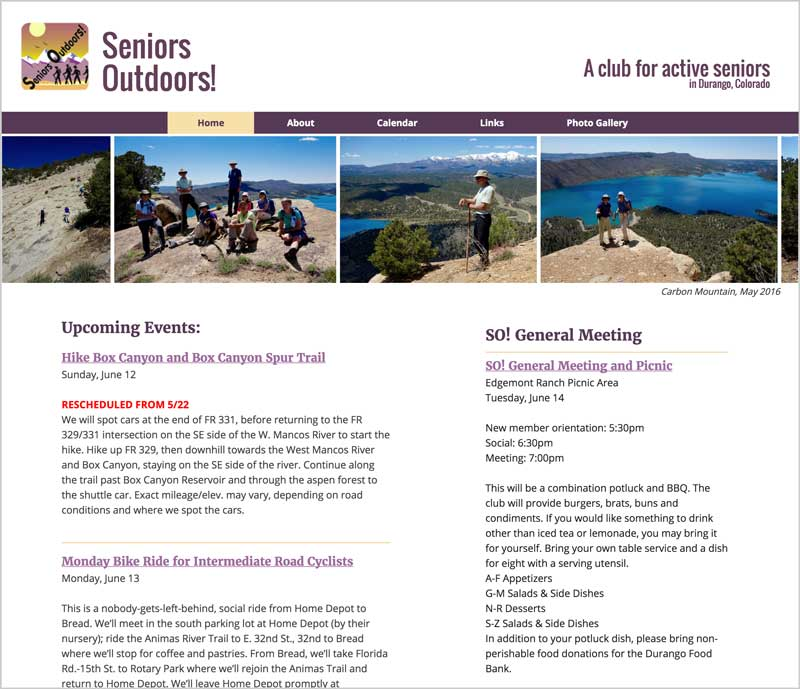
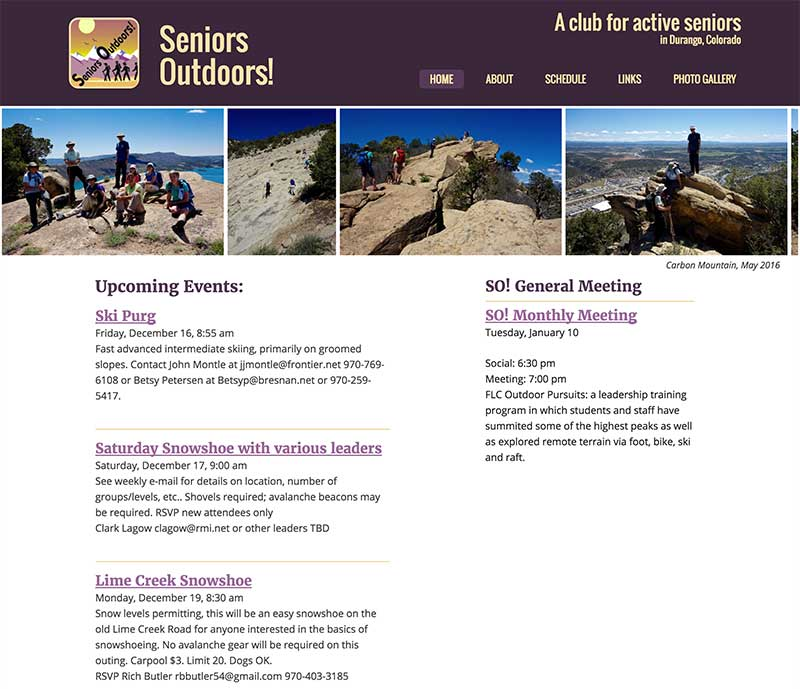
Refactoring of CSS

diff --git a/PUBLIC/projects/seniors-outdoors.html b/PUBLIC/projects/seniors-outdoors.html
@@ -71,23 +71,23 @@
 				<p class="navlink-right"><a class="text-link" href="appledore-banding.html">appledore &raquo;</a></p>
 			</div>
 			<div class="project-header">
-				<h2>Seniors Outdoors Redesign (in progress)</h2>
+				<h2>Seniors Outdoors Redesign</h2>
 				<h4>Information architecture, prototyping (paper, Axure), user testing (card sort, reverse card sort)</h4>
 			</div>
 			<figure class="right">
 				<img src="../img/projects/SO_old.jpg" alt="Current Seniors Outdoors site">
-				<figcaption>Current Site</figcaption>
+				<figcaption>Previous Site</figcaption>
 			</figure>
 
 			<div>
 				<h3>The Project</h3>
-				<p>As a freelance project, I redesigned the website for <a href="http://seniorsoutdoors.org/" class="text-link" target="_blank">Seniors Outdoors</a>, a club for active seniors in Durango, Colorado.</p>
+				<p>As a freelance project, I redesigned the website for Seniors Outdoors, a club for active seniors in Durango, Colorado.</p>
 			</div>
 <!-- 			<img class="right" src="../img/projects/SO-prototype.jpg" alt="Seniors Outdoors prototypes">
  -->
 			<div>
 				<h3>The Problem</h3>
-				<p>The club's current site is dated and has a shallow structure with long pages of dense text, which makes content on the site difficult to access. In addition, club members are increasingly expressing a desire to be able to access information from their mobile devices, which the current site does not support.</p>
+				<p>The club's <a href="http://old.seniorsoutdoors.org/" class="text-link" target="_blank">previous site</a> was dated and had a shallow structure with long pages of dense text, making content on the site difficult to access. In addition, club members were increasingly expressing a desire to be able to access information from their mobile devices, which the previous site did not support.</p>
 			</div>
 
 			<div>
@@ -97,21 +97,22 @@
 					<li>Content inventory and proposed restructuring of the site's information architecture</li>
 					<li>User testing consisting of a card sort and tree test to validate and refine the proposed IA</li>
 					<li>Development of both paper &amp; pencil and Axure prototypes </li>
-					<li><a class="text-link" href="../dev-projects.html#seniors-outdoors">Development of the redesigned site</a> using WordPress (in progress)</li>
+					<li><a class="text-link" href="../dev-projects.html#seniors-outdoors">Development of the redesigned site</a> using WordPress</li>
 				</ol>
 			</div>
 			<figure class="right">
-				<img src="../img/projects/SO_after.jpg" alt="New site in progress">
+				<img src="../img/projects/SO_after.jpg" alt="New site">
 				<figcaption>Redesigned Site</figcaption>
 			</figure>
 
 			<div>
 				<h3>The Result</h3>
-				<p>The redesigned site is <a class="text-link" href="../dev-projects.html#seniors-outdoors">currently being developed</a> using WordPress. Planned features of the redesigned site are:</p>
+				<p>The redesigned site was <a class="text-link" href="../dev-projects.html#seniors-outdoors">developed</a> using WordPress. Features of the redesigned site include:</p>
 				<ul class="triangle-list">
+					<li>A fresher, more modern look</li>
+					<li>Dynamic presentation of upcoming outings</li>
 					<li>A calendar view for the club's outing schedule</li>
-					<li>Improved implementation of the photo gallery</li>
-					<li>Secure treatment of member information</li>
+					<li>A mechanism for uploading outings from a spreadsheet</li>
 					<li>A user-friendly interface to allow club organizers to add and modify content</li>
 					<li>Improved accessibility and performance for mobile users</li>
 				</ul>
@@ -119,7 +120,7 @@
 
 			<div>
 				<h3>My Role</h3>
-				<p>Solo project: I did all research and design work and am currently <a class="text-link" href="../dev-projects.html#seniors-outdoors">developing the site.</a></p>
+				<p>Solo project: I did all research, design and <a class="text-link" href="../dev-projects.html#seniors-outdoors">development</a> work.</p>
 			</div>
 			<div class="navlinks">
 				<p class="navlink-left"><a class="text-link" href="np-site-visits.html">&laquo; site visits</a></p>
@@ -134,7 +135,7 @@
 				<li id="phone"><span>(773) 710-8686</span></li>
 			</ul>
  -->			<div>
-				<p class="copyright">&copy; Liz Burton 2016</p>
+				<p class="copyright">&copy; Liz Burton 2017</p>
 				<p>Site <a href="../dev-projects.html#burtonux" class="text-link">designed and developed</a> by Liz Burton</p>
 			</div>
 		</footer>

diff --git a/PUBLIC/resume.html b/PUBLIC/resume.html
@@ -110,9 +110,9 @@
 
 				<h2>UX Publications &amp; Presentations</h2>
 				<ul class="hanging-indent">
-					<li>Liz Burton, Michael Kennedy, and Victoria Morville (2016). You Want Me to What? A Practical Guide to Diary Studies. Presented at the 2016 meeting of UXPA-Boston, April 29, 2016.</li>
+					<li>Liz Burton, Michael Kennedy, and Victoria Morville (2016). <a class="text-link" target="_blank" href="http://www.slideshare.net/MichaelKennedy17/you-want-me-to-what-a-practical-guide-to-diary-studies-61532487?qid=b1744552-059a-44f4-b537-0778a8b210ec&v=&b=&from_search=1">You Want Me to What? A Practical Guide to Diary Studies.</a> Presented at the 2016 meeting of UXPA-Boston, April 29, 2016.</li>
 					<li>Liz Burton, Debra Reich, and Yina Li (2015). Does a Personal Belief Create Bias in User Behavior Online? In: Rosenzweig, Elizabeth (2015). <cite>Successful User Experience: Strategies and Roadmaps.</cite> Burlington, MA: Morgan Kauffman Publishers.</li>
-					<li>Liz Burton, William Albert, and Mark Flynn (2014). A Comparison of the Performance of Webcam vs. Infrared Eye Tracking Technology. Presented at the 2014 Annual Meeting of the Human Factors and Ergonomics Society, September 2014, Chicago, IL. <a class="text-link" href="http://pro.sagepub.com/content/58/1/1437.full.pdf" target="_blank">http://pro.sagepub.com/content/58/1/1437.full.pdf</a></li>
+					<li>Liz Burton, William Albert, and Mark Flynn (2014). <a class="text-link" href="http://pro.sagepub.com/content/58/1/1437.full.pdf" target="_blank">A Comparison of the Performance of Webcam vs. Infrared Eye Tracking Technology.</a> Presented at the 2014 Annual Meeting of the Human Factors and Ergonomics Society, September 2014, Chicago, IL.</li>
 				</ul>
 				<h2>Prior Work Experience</h2>
 				<h3>Psychometrician<span>Measured Progress<span class="bullet">&bull;</span>2002 - 2011<span class="bullet">&bull;</span>Dover, NH</span></h3>
@@ -125,10 +125,11 @@
 					<h2>Skillset</h2>
 					<h3>User Experience</h3>
 					<ul>
+						<li>User research</li>
 						<li>Interaction design</li>
 						<li>Information architecture</li>
-						<li>User research</li>
 						<li>Quantitative research methods</li>
+						<li>Survey design and analysis</li>
 						<li>Statistical analysis</li>
 					</ul>
 					<h3>Front-end Development</h3>
@@ -153,9 +154,9 @@
 					<h3>Online research tools (unmoderated)</h3>
 					<ul>
 						<li>Userzoom</li>
-						<li>Usertesting.com</li>
-						<li>Optimal Workshop</li>
 						<li>Qualtrics</li>
+						<li>Optimal Workshop</li>
+						<li>Usertesting.com</li>
 					</ul>
 					<h3>Eye tracking Technology</h3>
 					<ul>
@@ -218,6 +219,11 @@
 					</ul>
 				</div>
 				<div class="one-third right">
+					<h3>University of Colorado</h3>
+					<ul>
+						<li>Experimental Design</li>
+						<li>Ethnographic Methods</li>
+					</ul>
 					<h3>Minneapolis College of Art and Design (MCAD)</h3>
 						<ul>
 							<li>Web Development: HTML + CSS</li>
@@ -225,11 +231,6 @@
 							<li>Web Development: JavaScript + jQuery</li>
 							<li>Responsive Design</li>
 						</ul>
-					<h3>University of Colorado</h3>
-					<ul>
-						<li>Ethnographic Methods</li>
-						<li>Experimental Design</li>
-					</ul>
 				</div>
 			</div>
 
@@ -242,7 +243,7 @@
 				<li id="phone"><span>(773) 710-8686</span></li>
 			</ul>
  -->			<div>
-				<p class="copyright">&copy; Liz Burton 2016</p>
+				<p class="copyright">&copy; Liz Burton 2017</p>
 				<p>Site <a href="dev-projects.html#burtonux" class="text-link">designed and developed</a> by Liz Burton</p>
 			</div>
 		</footer>

diff --git a/PUBLIC/header.html b/PUBLIC/header.html
@@ -1,0 +1,75 @@
+<!--
+Working on making the header and nav dynamic
+Need to create .php files for each page
+Also need to create code for nav to correctly show selected page!!!!
+-->
+
+
+<!DOCTYPE html>
+<html>
+	<head>
+		<meta charset="utf-8">
+		<meta name="viewport" content="width=device-width, initial-scale=1.0">
+		<script src="modernizr.js"></script>
+		<script src="jquery-1.11.3.min.js"></script>
+		<script src="mobile-menu.js"></script>
+		<script async charset="utf-8" src="//cdn.thinglink.me/jse/embed.js"></script>
+		<script>
+		    $(function() {
+		    	var selected = false;
+				$(".no-touchevents nav li").hover(function() {
+					if ( $(this).attr("class") == "selected") {
+						selected = true;
+						$(this).toggleClass("selected").toggleClass("menu-hover-state");
+					} else {
+						$(this).toggleClass("menu-hover-state");
+					}
+				}, function() {
+					if (selected) {
+						$(this).toggleClass("selected").toggleClass("menu-hover-state");
+						selected = false;
+					} else {
+						$(this).toggleClass("menu-hover-state");
+					}
+				});
+				$(".no-touchevents .project-menu-item").hover(function() {
+					$("ul.sub-nav").toggleClass("visually-hidden");
+				});
+				$(".no-touchevents nav li li").hover(function() {
+					$(".project-menu-item>a").toggleClass("menu-hover-state");
+				});
+			});
+
+		</script>
+		<title>burtonux.com</title>
+		<link rel="icon" type="image/ico" href="favicon.ico">
+		<link rel="stylesheet" type="text/css" href="CSS/normalize.css">		
+		<link rel="stylesheet" type="text/css" href="CSS/home.css">
+		<link href='https://fonts.googleapis.com/css?family=PT+Sans:400,400italic,700' rel='stylesheet' type='text/css'>
+	</head>
+
+	<body>
+		<div class="wrapper">
+			<header>
+				<nav class="hamburger-menu">
+					<img class="hamburger" src="img/hamburger.png">
+				</nav>
+				<a href="index.php"><img class="logo" src="img/logos/logo_purple.png" onmouseover="this.src='img/logos/logo_blue_new.png';" onmouseout="this.src='img/logos/logo_purple.png';" alt="liz burton's logo"></a>
+				<nav class="main-menu">
+	 				<ul>
+						<li><a class="selected" href="index.php">About</a></li>
+						<li class="project-menu-item"><a href="ux-projects.php">UX Research &amp; Design</a>
+	<!-- 						<ul class="sub-nav visually-hidden">
+								<li><a href="projects/mobile-app.html">Constant Contact Mobile App</a></li>
+								<li><a href="projects/galileo.html">Constant Contact Email Editor</a></li>
+								<li><a href="projects/np-site-visits.html">Non-profit Site Visits</a></li>
+								<li><a href="projects/seniors-outdoors.html">Seniors Outdoors</a></li>
+								<li><a href="projects/knitty.html">Knitty.com</a></li>
+							</ul>
+	 -->					</li>
+						<li><a href="dev-projects.html">Web Development</a></li>
+						<li><a href="resume.html">Resum&eacute;</a></li>
+						<li><a href="contact.html">Contact</a></li>
+					</ul>
+				</nav>
+			</header>

diff --git a/PUBLIC/dev-projects.html b/PUBLIC/dev-projects.html
@@ -98,9 +98,9 @@
 					<h3>Project: Design and develop a website for Seniors Outdoors!</h3>
 					<p>Development phase of freelance research, design, and development project. Currently developing the new site for Seniors Outdoors, a club for active seniors in Durango, Colorado. </p>
 					<p>I customized a Wordpress Events plugin to enable dynamic display of the club's outings on the home page and calendar page, and wrote the code to create a printable list version of the schedule. I also designed a system to enable the club's webmaster to upload the events using an Excel spreadsheet.</p> 
-					<p>The site is still a work in progress, with a tentative goal of launching it in Fall 2016.</p>
+					<p>A <a class="text-link" href="http://burtonux.com/seniorsoutdoors/" target="_blank">test installation</a> of the site has been released to the membership for their feedback. </p>
 					<p><a class="text-link" href="projects/seniors-outdoors.html" target="_blank">Details of research phase</a></p>
-					<p><a class="text-link" href="http://burtonux.com/seniorsoutdoors/" target="_blank">Test installation of site in progress</a></p>
+					<p><a class="text-link" href="http://burtonux.com/seniorsoutdoors/" target="_blank">Test installation of redesigned site</a></p>
 					<p><a class="text-link" href="https://github.com/lizbur10/appledorebanding" target="_blank">Github repo</a></p>
 				</div>
 			</article>
@@ -212,7 +212,7 @@
 				<li id="phone"><span>(773) 710-8686</span></li>
 			</ul>
  -->			<div>
-				<p class="copyright">&copy; Liz Burton 2016</p>
+				<p class="copyright">&copy; Liz Burton 2017</p>
 				<p>Site <a href="dev-projects.html#burtonux" class="text-link">designed and developed</a> by Liz Burton</p>
 			</div>
 		</footer>

diff --git a/PUBLIC/index.html b/PUBLIC/index.html
@@ -6,6 +6,7 @@
 		<script src="modernizr.js"></script>
 		<script src="jquery-1.11.3.min.js"></script>
 		<script src="mobile-menu.js"></script>
+		<script async charset="utf-8" src="//cdn.thinglink.me/jse/embed.js"></script>
 		<script>
 		    $(function() {
 		    	var selected = false;
@@ -92,7 +93,10 @@
 						</ul>
 					</li>
 				</ul>
-	 -->		</section>
+
+	 -->		
+
+	</section>
 
 			<footer>
 <!-- 				<ul>
@@ -101,7 +105,7 @@
 					<li id="phone"><span>(773) 710-8686</span></li>
 				</ul>
 	 -->			<div>
-					<p class="copyright">&copy; Liz Burton 2016</p>
+					<p class="copyright">&copy; Liz Burton 2017</p>
 					<p>Site <a href="dev-projects.html#burtonux" class="text-link">designed and developed</a> by Liz Burton</p>
 				</div>
 			</footer>

diff --git a/PUBLIC/index_devFocus.html b/PUBLIC/index_devFocus.html
@@ -100,7 +100,7 @@
 					<li id="phone"><span>(773) 710-8686</span></li>
 				</ul>
 	 -->			<div>
-					<p class="copyright">&copy; Liz Burton 2016</p>
+					<p class="copyright">&copy; Liz Burton 2017</p>
 					<p>Site <a href="dev-projects.html#burtonux" class="text-link">designed and developed</a> by Liz Burton</p>
 				</div>
 			</footer>

diff --git a/PUBLIC/contact.html b/PUBLIC/contact.html
@@ -84,7 +84,7 @@
 					<li id="phone"><span>(773) 710-8686</span></li>
 				</ul>
 	 -->			<div>
-					<p class="copyright">&copy; Liz Burton 2016</p>
+					<p class="copyright">&copy; Liz Burton 2017</p>
 					<p>Site <a href="dev-projects.html#burtonux" class="text-link">designed and developed</a> by Liz Burton</p>
 				</div>
 			</footer>

diff --git a/PUBLIC/projects/appledore-banding.html b/PUBLIC/projects/appledore-banding.html
@@ -121,7 +121,7 @@
 				<li id="phone"><span>(773) 710-8686</span></li>
 			</ul>
  -->			<div>
-				<p class="copyright">&copy; Liz Burton 2016</p>
+				<p class="copyright">&copy; Liz Burton 2017</p>
 				<p>Site <a href="../dev-projects.html#burtonux" class="text-link">designed and developed</a> by Liz Burton</p>
 			</div>
 		</footer>

diff --git a/PUBLIC/projects/galileo.html b/PUBLIC/projects/galileo.html
@@ -133,7 +133,7 @@
 				<li id="phone"><span>(773) 710-8686</span></li>
 			</ul>
  -->			<div>
-				<p class="copyright">&copy; Liz Burton 2016</p>
+				<p class="copyright">&copy; Liz Burton 2017</p>
 				<p>Site <a href="../dev-projects.html#burtonux" class="text-link">designed and developed</a> by Liz Burton</p>
 			</div>
 		</footer>

diff --git a/PUBLIC/projects/knitty.html b/PUBLIC/projects/knitty.html
@@ -123,7 +123,7 @@
 				<li id="phone"><span>(773) 710-8686</span></li>
 			</ul>
  -->			<div>
-				<p class="copyright">&copy; Liz Burton 2016</p>
+				<p class="copyright">&copy; Liz Burton 2017</p>
 				<p>Site <a href="../dev-projects.html#burtonux" class="text-link">designed and developed</a> by Liz Burton</p>
 			</div>
 		</footer>

diff --git a/PUBLIC/projects/mobile-app.html b/PUBLIC/projects/mobile-app.html
@@ -130,7 +130,7 @@
 				<li id="phone"><span>(773) 710-8686</span></li>
 			</ul>
  -->			<div>
-				<p class="copyright">&copy; Liz Burton 2016</p>
+				<p class="copyright">&copy; Liz Burton 2017</p>
 				<p>Site <a href="../dev-projects.html#burtonux" class="text-link">designed and developed</a> by Liz Burton</p>
 			</div>
 		</footer>

diff --git a/PUBLIC/projects/np-site-visits.html b/PUBLIC/projects/np-site-visits.html
@@ -124,7 +124,7 @@
 				<li id="phone"><span>(773) 710-8686</span></li>
 			</ul>
  -->			<div>
-				<p class="copyright">&copy; Liz Burton 2016</p>
+				<p class="copyright">&copy; Liz Burton 2017</p>
 				<p>Site <a href="../dev-projects.html#burtonux" class="text-link">designed and developed</a> by Liz Burton</p>
 			</div>
 		</footer>
